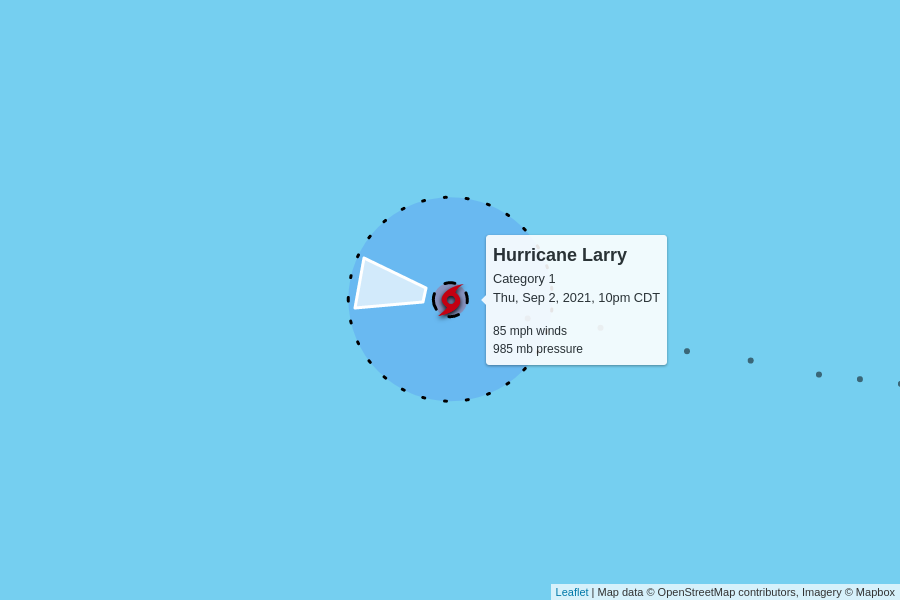
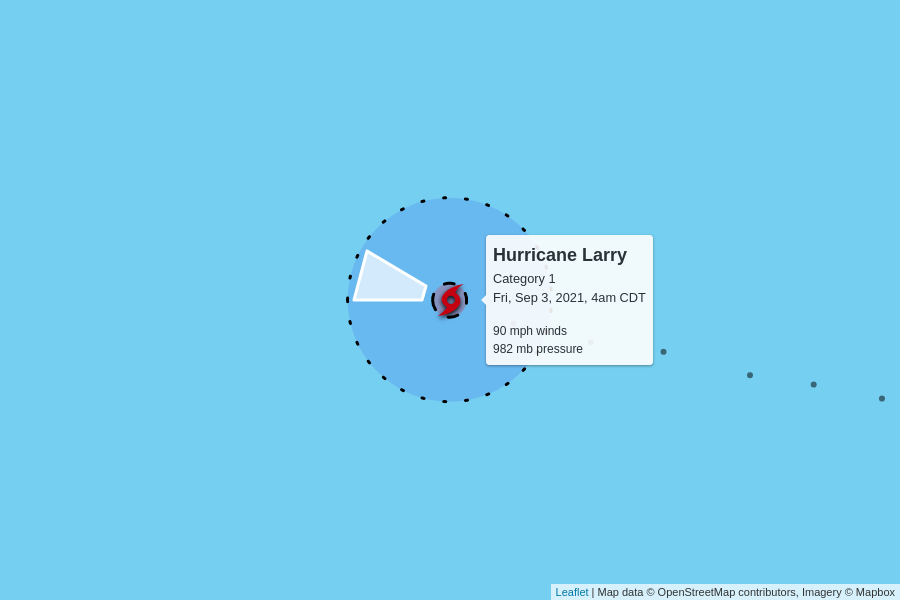
automatic update

diff --git a/docs/index.html b/docs/index.html
@@ -100,7 +100,7 @@
         <td colspan="6" class="storm category-1">
           <h2>
             Hurricane Larry - Category 1
-            <p class="updated">last updated <span data-time>2021-09-03T03:00:00.000Z</span></p>
+            <p class="updated">last updated <span data-time>2021-09-03T09:00:00.000Z</span></p>
           </h2>
         </td>
       </tr>
@@ -115,12 +115,12 @@
       </tr>
       <tr>
         <td class="spacer"></td>
-        <td>85 mph</td>
-        <td>985 mb</td>
+        <td>90 mph</td>
+        <td>982 mb</td>
         <td>
-          20 mph to the west
+          20 mph to the west-northwest
           <br/>
-          <span style="display: inline-block; font-size: 1.5em; transform: rotate(280deg);">↑</span>
+          <span style="display: inline-block; font-size: 1.5em; transform: rotate(285deg);">↑</span>
         </td>
         <td><a href="https://raw.githubusercontent.com/mgwalker/atlantic-hurricanes/main/data/csv/AL122021.csv">AL122021.csv</a></td>
         <td><a href="https://www.nhc.noaa.gov/archive/2021/LARRY.shtml?">NHC advisories</a></td>
